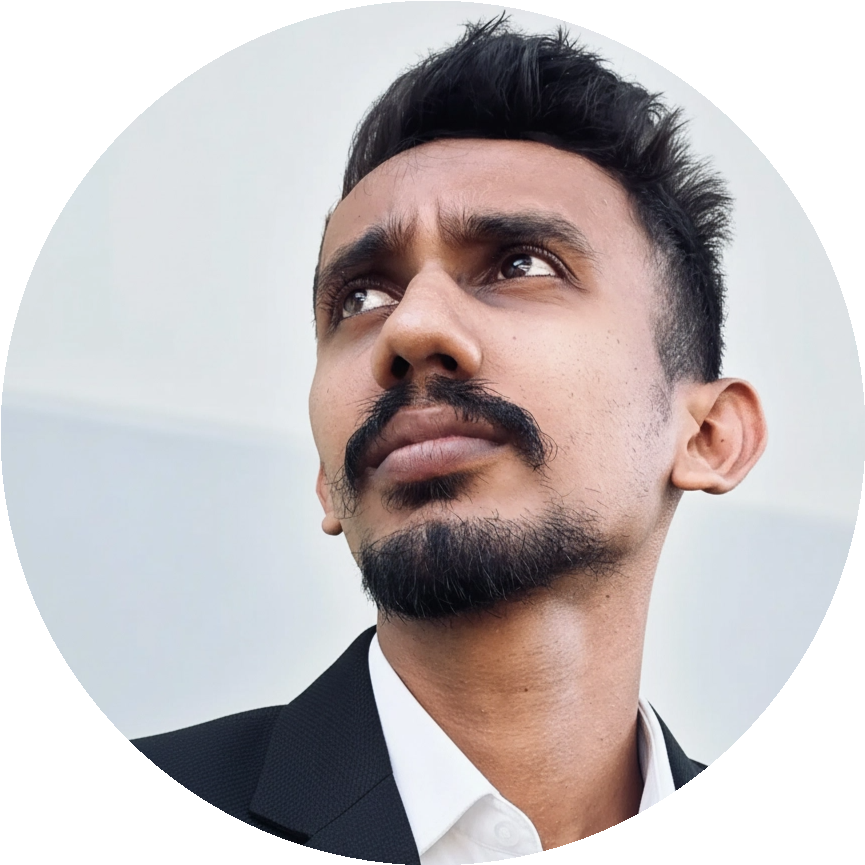
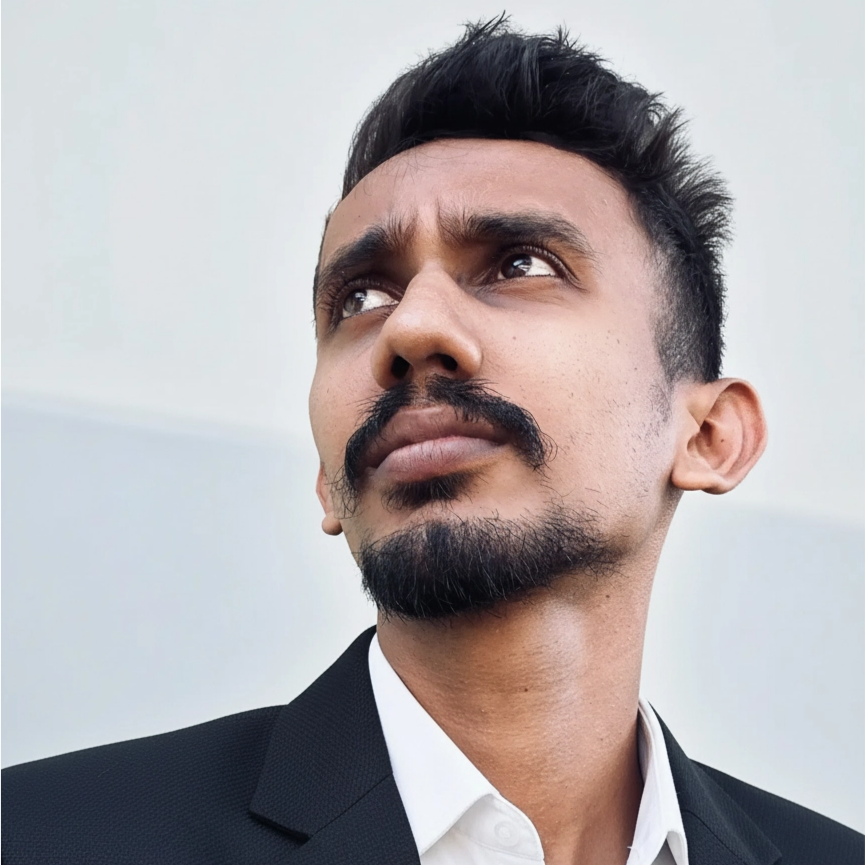
Updates

diff --git a/index.html b/index.html
@@ -1,10 +1,10 @@
-<!doctype html><html lang="en"><head><meta charset="utf-8"/><link rel="icon" type="image/png" href="/profile.jpg"/><link rel="icon" href="/favicon.ico"/><meta name="viewport" content="width=device-width,initial-scale=1"/><meta name="theme-color" content="#3b82f6"/><meta name="author" content="Rasika Prabath"/><title>Rasika Prabath | Software Engineer & Graphic Designer Portfolio</title><meta name="description" content="Portfolio of Rasika Prabath - Software Engineer, UI/UX Designer & Graphic Designer. Discover projects, skills, certificates, and professional experience."/><meta name="keywords" content="Rasika Prabath, Software Engineer, Graphic Designer, UI/UX Designer, Sri Lanka, SLIIT, React Developer, CodeHavenAcademy, Simplify Art, web development"/><meta name="robots" content="index, follow"/><meta property="og:type" content="website"/><meta property="og:url" content="https://www.rasikaprabath.me/"/><meta property="og:title" content="Rasika Prabath | Software Engineer & Graphic Designer"/><meta property="og:description" content="Portfolio of Rasika Prabath. Software Engineer, UI/UX Designer & Graphic Designer."/><meta property="og:image" content="/profile.jpg"/><meta property="twitter:card" content="summary_large_image"/><meta property="twitter:url" content="https://www.rasikaprabath.me/"/><meta property="twitter:title" content="Rasika Prabath | Software Engineer & Graphic Designer"/><meta property="twitter:description" content="Portfolio of Rasika Prabath. Software Engineer, UI/UX Designer & Graphic Designer."/><meta property="twitter:image" content="/profile.jpg"/><link rel="apple-touch-icon" href="/profile.jpg"/><link rel="apple-touch-icon" href="/logo192.png"/><link rel="manifest" href="/manifest.json"/><link rel="preconnect" href="https://fonts.googleapis.com"/><link rel="preconnect" href="https://fonts.gstatic.com" crossorigin/><link href="https://fonts.googleapis.com/css2?family=Inter:wght@300;400;500;600;700;800&family=Playfair+Display:wght@400;500;600;700&display=swap" rel="stylesheet"/><script type="application/ld+json">{
+<!doctype html><html lang="en"><head><meta charset="utf-8"/><link rel="icon" href="/favicon.ico?v=3"/><meta name="viewport" content="width=device-width,initial-scale=1"/><meta name="theme-color" content="#3b82f6"/><meta name="author" content="Rasika Prabath"/><title>Rasika Prabath | Software Engineer & UI/UX Designer</title><meta name="description" content="Hi, I'm Rasika Prabath, a Software Engineer & UI/UX Designer specializing in building clean, efficient, and user-centric web applications."/><meta name="keywords" content="Rasika Prabath, Software Engineer, UI/UX Designer, Sri Lanka, SLIIT, React Developer, CodeHavenAcademy, Simplify Art, web development"/><meta name="robots" content="index, follow"/><meta property="og:type" content="website"/><meta property="og:url" content="https://www.rasikaprabath.me/"/><meta property="og:title" content="Rasika Prabath | Software Engineer & UI/UX Designer"/><meta property="og:description" content="Hi, I'm Rasika Prabath, a Software Engineer & UI/UX Designer specializing in building clean, efficient, and user-centric web applications."/><meta property="og:image" content="/profile_backup.jpg"/><meta property="twitter:card" content="summary_large_image"/><meta property="twitter:url" content="https://www.rasikaprabath.me/"/><meta property="twitter:title" content="Rasika Prabath | Software Engineer & UI/UX Designer"/><meta property="twitter:description" content="Hi, I'm Rasika Prabath, a Software Engineer & UI/UX Designer specializing in building clean, efficient, and user-centric web applications."/><meta property="twitter:image" content="/profile_backup.jpg"/><link rel="apple-touch-icon" href="/logo192.png"/><link rel="manifest" href="/manifest.json"/><link rel="preconnect" href="https://fonts.googleapis.com"/><link rel="preconnect" href="https://fonts.gstatic.com" crossorigin/><link href="https://fonts.googleapis.com/css2?family=Inter:wght@300;400;500;600;700;800&family=Playfair+Display:wght@400;500;600;700&display=swap" rel="stylesheet"/><script type="application/ld+json">{
         "@context": "https://schema.org",
         "@type": "Person",
         "name": "Rasika Prabath",
         "url": "https://www.rasikaprabath.me/",
-        "image": "https://www.rasikaprabath.me/profile.jpg",
-        "jobTitle": "Software Engineer & Graphic Designer",
+        "image": "https://www.rasikaprabath.me/profile_backup.jpg",
+        "jobTitle": "Software Engineer & UI/UX Designer",
         "alumniOf": {
           "@type": "EducationalOrganization",
           "name": "SLIIT (Sri Lanka Institute of Information Technology)"
@@ -13,4 +13,4 @@
           "https://www.youtube.com/@CodeHavenAcademy",
           "https://www.instagram.com/simplify.art.lk"
         ]
-      }</script><script defer="defer" src="/static/js/main.e699541f.js"></script><link href="/static/css/main.2d41b281.css" rel="stylesheet"></head><body><noscript>You need to enable JavaScript to run this app.</noscript><div id="root"></div></body></html>
+      }</script><script defer="defer" src="/static/js/main.665c8e04.js"></script><link href="/static/css/main.f1a2ea99.css" rel="stylesheet"></head><body><noscript>You need to enable JavaScript to run this app.</noscript><div id="root"></div></body></html>

diff --git a/static/css/main.f1a2ea99.css b/static/css/main.f1a2ea99.css
@@ -1,0 +1,6 @@
+@import url(https://fonts.googleapis.com/css2?family=Plus+Jakarta+Sans:wght@300;400;500;600;700&family=Syne:wght@500;700;800&family=Outfit:wght@400;500;600;700&display=swap);*,:after,:before{--tw-border-spacing-x:0;--tw-border-spacing-y:0;--tw-translate-x:0;--tw-translate-y:0;--tw-rotate:0;--tw-skew-x:0;--tw-skew-y:0;--tw-scale-x:1;--tw-scale-y:1;--tw-pan-x: ;--tw-pan-y: ;--tw-pinch-zoom: ;--tw-scroll-snap-strictness:proximity;--tw-gradient-from-position: ;--tw-gradient-via-position: ;--tw-gradient-to-position: ;--tw-ordinal: ;--tw-slashed-zero: ;--tw-numeric-figure: ;--tw-numeric-spacing: ;--tw-numeric-fraction: ;--tw-ring-inset: ;--tw-ring-offset-width:0px;--tw-ring-offset-color:#fff;--tw-ring-color:#3b82f680;--tw-ring-offset-shadow:0 0 #0000;--tw-ring-shadow:0 0 #0000;--tw-shadow:0 0 #0000;--tw-shadow-colored:0 0 #0000;--tw-blur: ;--tw-brightness: ;--tw-contrast: ;--tw-grayscale: ;--tw-hue-rotate: ;--tw-invert: ;--tw-saturate: ;--tw-sepia: ;--tw-drop-shadow: ;--tw-backdrop-blur: ;--tw-backdrop-brightness: ;--tw-backdrop-contrast: ;--tw-backdrop-grayscale: ;--tw-backdrop-hue-rotate: ;--tw-backdrop-invert: ;--tw-backdrop-opacity: ;--tw-backdrop-saturate: ;--tw-backdrop-sepia: ;--tw-contain-size: ;--tw-contain-layout: ;--tw-contain-paint: ;--tw-contain-style: }::backdrop{--tw-border-spacing-x:0;--tw-border-spacing-y:0;--tw-translate-x:0;--tw-translate-y:0;--tw-rotate:0;--tw-skew-x:0;--tw-skew-y:0;--tw-scale-x:1;--tw-scale-y:1;--tw-pan-x: ;--tw-pan-y: ;--tw-pinch-zoom: ;--tw-scroll-snap-strictness:proximity;--tw-gradient-from-position: ;--tw-gradient-via-position: ;--tw-gradient-to-position: ;--tw-ordinal: ;--tw-slashed-zero: ;--tw-numeric-figure: ;--tw-numeric-spacing: ;--tw-numeric-fraction: ;--tw-ring-inset: ;--tw-ring-offset-width:0px;--tw-ring-offset-color:#fff;--tw-ring-color:#3b82f680;--tw-ring-offset-shadow:0 0 #0000;--tw-ring-shadow:0 0 #0000;--tw-shadow:0 0 #0000;--tw-shadow-colored:0 0 #0000;--tw-blur: ;--tw-brightness: ;--tw-contrast: ;--tw-grayscale: ;--tw-hue-rotate: ;--tw-invert: ;--tw-saturate: ;--tw-sepia: ;--tw-drop-shadow: ;--tw-backdrop-blur: ;--tw-backdrop-brightness: ;--tw-backdrop-contrast: ;--tw-backdrop-grayscale: ;--tw-backdrop-hue-rotate: ;--tw-backdrop-invert: ;--tw-backdrop-opacity: ;--tw-backdrop-saturate: ;--tw-backdrop-sepia: ;--tw-contain-size: ;--tw-contain-layout: ;--tw-contain-paint: ;--tw-contain-style: }
+
+/*
+! tailwindcss v3.4.19 | MIT License | https://tailwindcss.com
+*/*,:after,:before{border:0 solid #e5e7eb;box-sizing:border-box}:after,:before{--tw-content:""}:host,html{-webkit-text-size-adjust:100%;font-feature-settings:normal;-webkit-tap-highlight-color:transparent;font-family:Plus Jakarta Sans,-apple-system,BlinkMacSystemFont,Segoe UI,Inter,sans-serif;font-variation-settings:normal;line-height:1.5;tab-size:4}body{line-height:inherit}hr{border-top-width:1px;color:inherit;height:0}abbr:where([title]){-webkit-text-decoration:underline dotted;text-decoration:underline dotted}h1,h2,h3,h4,h5,h6{font-size:inherit;font-weight:inherit}a{text-decoration:inherit}b,strong{font-weight:bolder}code,kbd,pre,samp{font-feature-settings:normal;font-family:ui-monospace,SFMono-Regular,Menlo,Monaco,Consolas,Liberation Mono,Courier New,monospace;font-size:1em;font-variation-settings:normal}small{font-size:80%}sub,sup{font-size:75%;line-height:0;position:relative;vertical-align:initial}sub{bottom:-.25em}sup{top:-.5em}table{border-collapse:collapse;border-color:inherit;text-indent:0}button,input,optgroup,select,textarea{font-feature-settings:inherit;color:inherit;font-family:inherit;font-size:100%;font-variation-settings:inherit;font-weight:inherit;letter-spacing:inherit;line-height:inherit;margin:0;padding:0}button,select{text-transform:none}button,input:where([type=button]),input:where([type=reset]),input:where([type=submit]){-webkit-appearance:button;background-color:initial;background-image:none}:-moz-focusring{outline:auto}:-moz-ui-invalid{box-shadow:none}progress{vertical-align:initial}::-webkit-inner-spin-button,::-webkit-outer-spin-button{height:auto}[type=search]{-webkit-appearance:textfield;outline-offset:-2px}::-webkit-search-decoration{-webkit-appearance:none}::-webkit-file-upload-button{-webkit-appearance:button;font:inherit}summary{display:list-item}blockquote,dd,dl,figure,h1,h2,h3,h4,h5,h6,hr,p,pre{margin:0}fieldset{margin:0}fieldset,legend{padding:0}menu,ol,ul{list-style:none;margin:0;padding:0}dialog{padding:0}textarea{resize:vertical}input::placeholder,textarea::placeholder{color:#9ca3af;opacity:1}[role=button],button{cursor:pointer}:disabled{cursor:default}audio,canvas,embed,iframe,img,object,svg,video{display:block;vertical-align:middle}img,video{height:auto;max-width:100%}[hidden]:where(:not([hidden=until-found])){display:none}html{font-size:15px;scroll-behavior:smooth}::-webkit-scrollbar{height:10px;width:10px}::-webkit-scrollbar-button{display:none!important;height:0!important;width:0!important}::-webkit-scrollbar-track{background:#f9fafb}.dark ::-webkit-scrollbar-track,.dark::-webkit-scrollbar-track{background:#07090e}::-webkit-scrollbar-thumb{background:#0000004d;border:2px solid #f9fafb;border-radius:99px}.dark ::-webkit-scrollbar-thumb,.dark::-webkit-scrollbar-thumb{background:#ffffff4d;border-color:#07090e}::-webkit-scrollbar-thumb:hover{background:#00000080}.dark ::-webkit-scrollbar-thumb:hover,.dark::-webkit-scrollbar-thumb:hover{background:#ffffff80}@supports (-moz-appearance:none){*{scrollbar-color:#0000004d #f9fafb;scrollbar-width:thin}.dark *{scrollbar-color:#ffffff4d #07090e}}body{-webkit-font-smoothing:antialiased;-moz-osx-font-smoothing:grayscale;background-color:#e6e9f6;color:#4b5563;font-family:Plus Jakarta Sans,-apple-system,BlinkMacSystemFont,Segoe UI,Inter,sans-serif;font-weight:400;line-height:1.65;margin:0;transition:background-color .3s ease,color .3s ease}.dark body{background-color:#07090e;color:#94a3b8}a{color:inherit;text-decoration:none}h1,h2,h3,h4,h5,h6{color:#111827;font-family:Syne,Outfit,-apple-system,BlinkMacSystemFont,Segoe UI,sans-serif;font-weight:700;line-height:1.25}.dark h1,.dark h2,.dark h3,.dark h4,.dark h5,.dark h6{color:#fff}h1{font-size:2.25rem;font-weight:800}h2{font-size:1.75rem}h3{font-size:1.25rem}p{font-weight:400;line-height:1.65}section{position:relative;z-index:auto}:is(.dark .glass-card){background:#0f121cb3;border-color:#ffffff0d}.btn-primary{align-items:center;background-color:#1f2937;border:1px solid #0000;border-radius:9999px;color:#fff;cursor:pointer;display:inline-flex;font-size:.85rem;font-weight:600;justify-content:center;letter-spacing:-.01em;padding:.625rem 1.5rem;transition:all .3s ease}:is(.dark .btn-primary){background-color:#fff;color:#07090e}.btn-primary:hover{background-color:#111827;box-shadow:0 4px 12px #0000000d;transform:translateY(-1px)}:is(.dark .btn-primary:hover){background-color:#f3f4f6;box-shadow:0 4px 20px #ffffff1a}.btn-outline{align-items:center;background-color:initial;border:1px solid #0000001a;border-radius:9999px;color:#1f2937;cursor:pointer;display:inline-flex;font-size:.85rem;font-weight:600;justify-content:center;padding:.625rem 1.5rem;transition:all .3s ease}:is(.dark .btn-outline){border-color:#ffffff1a;color:#fff}.btn-outline:hover{background-color:#00000005;border-color:#0003;transform:translateY(-1px)}:is(.dark .btn-outline:hover){background-color:#ffffff0d;border-color:#ffffff40}:is(.dark .progress-bar){background:#ffffff0d}:is(.dark .progress-fill){background:#fff}.lets-talk-btn{align-items:center;background-color:initial;border:1px solid #0000001a;border-radius:9999px;color:#1f2937;cursor:pointer;display:inline-flex;font-size:.85rem;font-weight:600;justify-content:center;padding:.625rem 1.5rem;transition:all .3s ease}:is(.dark .lets-talk-btn){border-color:#ffffff1a;color:#fff}.lets-talk-btn:hover{background-color:#1f2937;border-color:#1f2937;color:#fff;transform:translateY(-1px)}:is(.dark .lets-talk-btn:hover){background-color:#fff;border-color:#fff;color:#07090e}:is(.dark .timeline-line){background:#ffffff0f}:is(.dark .timeline-dot){background:#4b5563}:is(.dark .premium-heading){color:#fff}:is(.dark .card-premium){background:#0f121c;border-color:#ffffff0a;box-shadow:none}:is(.dark .card-premium:hover){border-color:#ffffff1a;box-shadow:0 20px 40px #0003;transform:translateY(-4px)}.pointer-events-none{pointer-events:none}.pointer-events-auto{pointer-events:auto}.visible{visibility:visible}.fixed{position:fixed}.absolute{position:absolute}.relative{position:relative}.inset-0{inset:0}.-left-\[54px\]{left:-54px}.-right-\[54px\]{right:-54px}.bottom-0{bottom:0}.bottom-6{bottom:1.5rem}.left-1\/2{left:50%}.left-3{left:.75rem}.left-8{left:2rem}.right-4{right:1rem}.right-6{right:1.5rem}.right-8{right:2rem}.top-0{top:0}.top-3{top:.75rem}.top-4{top:1rem}.top-6{top:1.5rem}.isolate{isolation:isolate}.z-0{z-index:0}.z-10{z-index:10}.z-50{z-index:50}.z-\[9999\]{z-index:9999}.-m-3{margin:-.75rem}.-m-4{margin:-1rem}.mx-1{margin-left:.25rem;margin-right:.25rem}.mx-auto{margin-left:auto;margin-right:auto}.mb-0\.5{margin-bottom:.125rem}.mb-1{margin-bottom:.25rem}.mb-1\.5{margin-bottom:.375rem}.mb-10{margin-bottom:2.5rem}.mb-12{margin-bottom:3rem}.mb-2{margin-bottom:.5rem}.mb-2\.5{margin-bottom:.625rem}.mb-3{margin-bottom:.75rem}.mb-4{margin-bottom:1rem}.mb-5{margin-bottom:1.25rem}.mb-6{margin-bottom:1.5rem}.mb-8{margin-bottom:2rem}.ml-1{margin-left:.25rem}.ml-1\.5{margin-left:.375rem}.mt-1{margin-top:.25rem}.mt-12{margin-top:3rem}.mt-2{margin-top:.5rem}.mt-20{margin-top:5rem}.mt-3{margin-top:.75rem}.mt-4{margin-top:1rem}.mt-6{margin-top:1.5rem}.line-clamp-2{-webkit-box-orient:vertical;-webkit-line-clamp:2;display:-webkit-box;overflow:hidden}.block{display:block}.inline-block{display:inline-block}.flex{display:flex}.inline-flex{display:inline-flex}.grid{display:grid}.hidden{display:none}.h-1{height:.25rem}.h-10{height:2.5rem}.h-12{height:3rem}.h-16{height:4rem}.h-2{height:.5rem}.h-3{height:.75rem}.h-3\.5{height:.875rem}.h-4{height:1rem}.h-44{height:11rem}.h-48{height:12rem}.h-5{height:1.25rem}.h-6{height:1.5rem}.h-64{height:16rem}.h-8{height:2rem}.h-\[15px\]{height:15px}.h-\[18px\]{height:18px}.h-full{height:100%}.max-h-\[85vh\]{max-height:85vh}.min-h-\[2rem\]{min-height:2rem}.min-h-screen{min-height:100vh}.w-0\.5{width:.125rem}.w-10{width:2.5rem}.w-12{width:3rem}.w-16{width:4rem}.w-2{width:.5rem}.w-3{width:.75rem}.w-3\.5{width:.875rem}.w-4{width:1rem}.w-48{width:12rem}.w-6{width:1.5rem}.w-64{width:16rem}.w-8{width:2rem}.w-\[15px\]{width:15px}.w-\[18px\]{width:18px}.w-\[1px\]{width:1px}.w-\[96\%\]{width:96%}.w-full{width:100%}.min-w-0{min-width:0}.max-w-2xl{max-width:42rem}.max-w-3xl{max-width:48rem}.max-w-4xl{max-width:56rem}.max-w-5xl{max-width:64rem}.max-w-6xl{max-width:72rem}.max-w-7xl{max-width:80rem}.max-w-full{max-width:100%}.max-w-max{max-width:-webkit-max-content;max-width:max-content}.max-w-md{max-width:28rem}.max-w-xl{max-width:36rem}.flex-1{flex:1 1}.flex-shrink-0{flex-shrink:0}.grow{flex-grow:1}.-translate-x-1\/2{--tw-translate-x:-50%}.-translate-x-1\/2,.translate-y-0{transform:translate(var(--tw-translate-x),var(--tw-translate-y)) rotate(var(--tw-rotate)) skewX(var(--tw-skew-x)) skewY(var(--tw-skew-y)) scaleX(var(--tw-scale-x)) scaleY(var(--tw-scale-y))}.translate-y-0{--tw-translate-y:0px}.translate-y-4{--tw-translate-y:1rem}.scale-100,.translate-y-4{transform:translate(var(--tw-translate-x),var(--tw-translate-y)) rotate(var(--tw-rotate)) skewX(var(--tw-skew-x)) skewY(var(--tw-skew-y)) scaleX(var(--tw-scale-x)) scaleY(var(--tw-scale-y))}.scale-100{--tw-scale-x:1;--tw-scale-y:1}.scale-95{--tw-scale-x:.95;--tw-scale-y:.95}.scale-95,.transform{transform:translate(var(--tw-translate-x),var(--tw-translate-y)) rotate(var(--tw-rotate)) skewX(var(--tw-skew-x)) skewY(var(--tw-skew-y)) scaleX(var(--tw-scale-x)) scaleY(var(--tw-scale-y))}@keyframes ping{75%,to{opacity:0;transform:scale(2)}}.animate-ping{animation:ping 1s cubic-bezier(0,0,.2,1) infinite}@keyframes pulse{50%{opacity:.5}}.animate-pulse{animation:pulse 2s cubic-bezier(.4,0,.6,1) infinite}.animate-spin{animation:spin 1s linear infinite}@keyframes spin{to{transform:rotate(1turn)}}.animate-spin-slow{animation:spin 20s linear infinite}.cursor-pointer{cursor:pointer}.select-none{-webkit-user-select:none;user-select:none}.resize-none{resize:none}.resize{resize:both}.grid-cols-1{grid-template-columns:repeat(1,minmax(0,1fr))}.grid-cols-3{grid-template-columns:repeat(3,minmax(0,1fr))}.flex-col{flex-direction:column}.flex-wrap{flex-wrap:wrap}.items-start{align-items:flex-start}.items-center{align-items:center}.items-baseline{align-items:baseline}.justify-end{justify-content:flex-end}.justify-center{justify-content:center}.justify-between{justify-content:space-between}.gap-0\.5{gap:.125rem}.gap-1{gap:.25rem}.gap-1\.5{gap:.375rem}.gap-12{gap:3rem}.gap-2{gap:.5rem}.gap-3{gap:.75rem}.gap-4{gap:1rem}.gap-6{gap:1.5rem}.gap-8{gap:2rem}.space-y-1\.5>:not([hidden])~:not([hidden]){--tw-space-y-reverse:0;margin-bottom:calc(.375rem*var(--tw-space-y-reverse));margin-top:calc(.375rem*(1 - var(--tw-space-y-reverse)))}.space-y-2>:not([hidden])~:not([hidden]){--tw-space-y-reverse:0;margin-bottom:calc(.5rem*var(--tw-space-y-reverse));margin-top:calc(.5rem*(1 - var(--tw-space-y-reverse)))}.space-y-5>:not([hidden])~:not([hidden]){--tw-space-y-reverse:0;margin-bottom:calc(1.25rem*var(--tw-space-y-reverse));margin-top:calc(1.25rem*(1 - var(--tw-space-y-reverse)))}.space-y-6>:not([hidden])~:not([hidden]){--tw-space-y-reverse:0;margin-bottom:calc(1.5rem*var(--tw-space-y-reverse));margin-top:calc(1.5rem*(1 - var(--tw-space-y-reverse)))}.overflow-hidden{overflow:hidden}.overflow-x-auto{overflow-x:auto}.overflow-y-auto{overflow-y:auto}.overflow-x-hidden{overflow-x:hidden}.whitespace-nowrap{white-space:nowrap}.break-words{overflow-wrap:break-word}.break-all{word-break:break-all}.rounded{border-radius:.25rem}.rounded-2xl{border-radius:1rem}.rounded-3xl{border-radius:1.5rem}.rounded-full{border-radius:9999px}.border{border-width:1px}.border-2{border-width:2px}.border-4{border-width:4px}.border-t{border-top-width:1px}.border-dashed{border-style:dashed}.border-amber-500\/20{border-color:#f59e0b33}.border-black\/10{border-color:#0000001a}.border-black\/5{border-color:#0000000d}.border-emerald-500\/10{border-color:#10b9811a}.border-emerald-500\/15{border-color:#10b98126}.border-gray-900{--tw-border-opacity:1;border-color:#111827;border-color:rgb(17 24 39/var(--tw-border-opacity,1))}.border-indigo-600{--tw-border-opacity:1;border-color:#4f46e5;border-color:rgb(79 70 229/var(--tw-border-opacity,1))}.border-rose-500\/20{border-color:#f43f5e33}.border-transparent{border-color:#0000}.bg-\[\#030508\]{--tw-bg-opacity:1;background-color:#030508;background-color:rgb(3 5 8/var(--tw-bg-opacity,1))}.bg-amber-500\/10{background-color:#f59e0b1a}.bg-amber-500\/5{background-color:#f59e0b0d}.bg-black\/10{background-color:#0000001a}.bg-black\/40{background-color:#0006}.bg-black\/5{background-color:#0000000d}.bg-emerald-400{--tw-bg-opacity:1;background-color:#34d399;background-color:rgb(52 211 153/var(--tw-bg-opacity,1))}.bg-emerald-500{--tw-bg-opacity:1;background-color:#10b981;background-color:rgb(16 185 129/var(--tw-bg-opacity,1))}.bg-emerald-500\/10{background-color:#10b9811a}.bg-emerald-500\/5{background-color:#10b9810d}.bg-gray-100{--tw-bg-opacity:1;background-color:#f3f4f6;background-color:rgb(243 244 246/var(--tw-bg-opacity,1))}.bg-gray-50{--tw-bg-opacity:1;background-color:#f9fafb;background-color:rgb(249 250 251/var(--tw-bg-opacity,1))}.bg-gray-900{--tw-bg-opacity:1;background-color:#111827;background-color:rgb(17 24 39/var(--tw-bg-opacity,1))}.bg-gray-900\/90{background-color:#111827e6}.bg-indigo-600{--tw-bg-opacity:1;background-color:#4f46e5;background-color:rgb(79 70 229/var(--tw-bg-opacity,1))}.bg-rose-500\/5{background-color:#f43f5e0d}.bg-transparent{background-color:initial}.bg-white{--tw-bg-opacity:1;background-color:#fff;background-color:rgb(255 255 255/var(--tw-bg-opacity,1))}.bg-white\/80{background-color:#fffc}.bg-gradient-to-br{background-image:linear-gradient(to bottom right,var(--tw-gradient-stops))}.bg-gradient-to-r{background-image:linear-gradient(to right,var(--tw-gradient-stops))}.from-black\/5{--tw-gradient-from:#0000000d var(--tw-gradient-from-position);--tw-gradient-to:#0000 var(--tw-gradient-to-position);--tw-gradient-stops:var(--tw-gradient-from),var(--tw-gradient-to)}.from-blue-400{--tw-gradient-from:#60a5fa var(--tw-gradient-from-position);--tw-gradient-to:#60a5fa00 var(--tw-gradient-to-position);--tw-gradient-stops:var(--tw-gradient-from),var(--tw-gradient-to)}.from-gray-900{--tw-gradient-from:#111827 var(--tw-gradient-from-position);--tw-gradient-to:#11182700 var(--tw-gradient-to-position);--tw-gradient-stops:var(--tw-gradient-from),var(--tw-gradient-to)}.via-blue-500{--tw-gradient-to:#3b82f600 var(--tw-gradient-to-position);--tw-gradient-stops:var(--tw-gradient-from),#3b82f6 var(--tw-gradient-via-position),var(--tw-gradient-to)}.to-black\/10{--tw-gradient-to:#0000001a var(--tw-gradient-to-position)}.to-blue-600{--tw-gradient-to:#2563eb var(--tw-gradient-to-position)}.to-gray-950{--tw-gradient-to:#030712 var(--tw-gradient-to-position)}.bg-clip-text{-webkit-background-clip:text;background-clip:text}.fill-white{fill:#fff}.object-contain{object-fit:contain}.object-cover{object-fit:cover}.p-2{padding:.5rem}.p-3{padding:.75rem}.p-4{padding:1rem}.p-5{padding:1.25rem}.p-6{padding:1.5rem}.p-8{padding:2rem}.px-1{padding-left:.25rem;padding-right:.25rem}.px-2{padding-left:.5rem;padding-right:.5rem}.px-2\.5{padding-left:.625rem;padding-right:.625rem}.px-3\.5{padding-left:.875rem;padding-right:.875rem}.px-4{padding-left:1rem;padding-right:1rem}.px-6{padding-left:1.5rem;padding-right:1.5rem}.py-0\.5{padding-bottom:.125rem;padding-top:.125rem}.py-1\.5{padding-bottom:.375rem;padding-top:.375rem}.py-16{padding-bottom:4rem;padding-top:4rem}.py-2{padding-bottom:.5rem;padding-top:.5rem}.py-20{padding-bottom:5rem;padding-top:5rem}.py-3{padding-bottom:.75rem;padding-top:.75rem}.py-4{padding-bottom:1rem;padding-top:1rem}.py-8{padding-bottom:2rem;padding-top:2rem}.pb-12{padding-bottom:3rem}.pb-4{padding-bottom:1rem}.pr-10{padding-right:2.5rem}.pt-2{padding-top:.5rem}.pt-28{padding-top:7rem}.pt-4{padding-top:1rem}.pt-8{padding-top:2rem}.text-left{text-align:left}.text-center{text-align:center}.font-display{font-family:Syne,Outfit,-apple-system,BlinkMacSystemFont,Segoe UI,sans-serif}.font-mono{font-family:ui-monospace,SFMono-Regular,Menlo,Monaco,Consolas,Liberation Mono,Courier New,monospace}.font-sans{font-family:Plus Jakarta Sans,-apple-system,BlinkMacSystemFont,Segoe UI,Inter,sans-serif}.text-2xl{font-size:1.5rem;line-height:2rem}.text-3xl{font-size:1.875rem;line-height:2.25rem}.text-4xl{font-size:2.25rem;line-height:2.5rem}.text-\[10px\]{font-size:10px}.text-base{font-size:1rem;line-height:1.5rem}.text-lg{font-size:1.125rem;line-height:1.75rem}.text-sm{font-size:.875rem;line-height:1.25rem}.text-xl{font-size:1.25rem;line-height:1.75rem}.text-xs{font-size:.75rem;line-height:1rem}.font-bold{font-weight:700}.font-light{font-weight:300}.font-medium{font-weight:500}.font-semibold{font-weight:600}.uppercase{text-transform:uppercase}.leading-\[1\.1\]{line-height:1.1}.leading-relaxed{line-height:1.625}.tracking-tight{letter-spacing:-.025em}.tracking-wider{letter-spacing:.05em}.tracking-widest{letter-spacing:.1em}.text-\[\#007396\]{--tw-text-opacity:1;color:#007396;color:rgb(0 115 150/var(--tw-text-opacity,1))}.text-\[\#007ACC\]{--tw-text-opacity:1;color:#007acc;color:rgb(0 122 204/var(--tw-text-opacity,1))}.text-\[\#06B6D4\]{--tw-text-opacity:1;color:#06b6d4;color:rgb(6 182 212/var(--tw-text-opacity,1))}.text-\[\#1572B6\]{--tw-text-opacity:1;color:#1572b6;color:rgb(21 114 182/var(--tw-text-opacity,1))}.text-\[\#339933\]{--tw-text-opacity:1;color:#393;color:rgb(51 153 51/var(--tw-text-opacity,1))}.text-\[\#4479A1\]{--tw-text-opacity:1;color:#4479a1;color:rgb(68 121 161/var(--tw-text-opacity,1))}.text-\[\#47A248\]{--tw-text-opacity:1;color:#47a248;color:rgb(71 162 72/var(--tw-text-opacity,1))}.text-\[\#512BD4\]{--tw-text-opacity:1;color:#512bd4;color:rgb(81 43 212/var(--tw-text-opacity,1))}.text-\[\#61DAFB\]{--tw-text-opacity:1;color:#61dafb;color:rgb(97 218 251/var(--tw-text-opacity,1))}.text-\[\#777BB4\]{--tw-text-opacity:1;color:#777bb4;color:rgb(119 123 180/var(--tw-text-opacity,1))}.text-\[\#E34F26\]{--tw-text-opacity:1;color:#e34f26;color:rgb(227 79 38/var(--tw-text-opacity,1))}.text-\[\#F05032\]{--tw-text-opacity:1;color:#f05032;color:rgb(240 80 50/var(--tw-text-opacity,1))}.text-\[\#F7DF1E\]{--tw-text-opacity:1;color:#f7df1e;color:rgb(247 223 30/var(--tw-text-opacity,1))}.text-\[\#FFCA28\]{--tw-text-opacity:1;color:#ffca28;color:rgb(255 202 40/var(--tw-text-opacity,1))}.text-amber-600{--tw-text-opacity:1;color:#d97706;color:rgb(217 119 6/var(--tw-text-opacity,1))}.text-black{--tw-text-opacity:1;color:#000;color:rgb(0 0 0/var(--tw-text-opacity,1))}.text-current{color:currentColor}.text-emerald-600{--tw-text-opacity:1;color:#059669;color:rgb(5 150 105/var(--tw-text-opacity,1))}.text-gray-300{--tw-text-opacity:1;color:#d1d5db;color:rgb(209 213 219/var(--tw-text-opacity,1))}.text-gray-400{--tw-text-opacity:1;color:#9ca3af;color:rgb(156 163 175/var(--tw-text-opacity,1))}.text-gray-500{--tw-text-opacity:1;color:#6b7280;color:rgb(107 114 128/var(--tw-text-opacity,1))}.text-gray-600{--tw-text-opacity:1;color:#4b5563;color:rgb(75 85 99/var(--tw-text-opacity,1))}.text-gray-700{--tw-text-opacity:1;color:#374151;color:rgb(55 65 81/var(--tw-text-opacity,1))}.text-gray-800{--tw-text-opacity:1;color:#1f2937;color:rgb(31 41 55/var(--tw-text-opacity,1))}.text-gray-900{--tw-text-opacity:1;color:#111827;color:rgb(17 24 39/var(--tw-text-opacity,1))}.text-indigo-600{--tw-text-opacity:1;color:#4f46e5;color:rgb(79 70 229/var(--tw-text-opacity,1))}.text-rose-600{--tw-text-opacity:1;color:#e11d48;color:rgb(225 29 72/var(--tw-text-opacity,1))}.text-transparent{color:#0000}.text-white{--tw-text-opacity:1;color:#fff;color:rgb(255 255 255/var(--tw-text-opacity,1))}.underline{-webkit-text-decoration-line:underline;text-decoration-line:underline}.decoration-indigo-500{-webkit-text-decoration-color:#6366f1;text-decoration-color:#6366f1}.decoration-2{text-decoration-thickness:2px}.underline-offset-4{text-underline-offset:4px}.opacity-0{opacity:0}.opacity-100{opacity:1}.opacity-25{opacity:.25}.opacity-75{opacity:.75}.shadow-lg{--tw-shadow:0 10px 15px -3px #0000001a,0 4px 6px -4px #0000001a;--tw-shadow-colored:0 10px 15px -3px var(--tw-shadow-color),0 4px 6px -4px var(--tw-shadow-color)}.shadow-lg,.shadow-md{box-shadow:0 0 #0000,0 0 #0000,var(--tw-shadow);box-shadow:var(--tw-ring-offset-shadow,0 0 #0000),var(--tw-ring-shadow,0 0 #0000),var(--tw-shadow)}.shadow-md{--tw-shadow:0 4px 6px -1px #0000001a,0 2px 4px -2px #0000001a;--tw-shadow-colored:0 4px 6px -1px var(--tw-shadow-color),0 2px 4px -2px var(--tw-shadow-color)}.shadow-sm{--tw-shadow:0 1px 2px 0 #0000000d;--tw-shadow-colored:0 1px 2px 0 var(--tw-shadow-color)}.shadow-sm,.shadow-xl{box-shadow:0 0 #0000,0 0 #0000,var(--tw-shadow);box-shadow:var(--tw-ring-offset-shadow,0 0 #0000),var(--tw-ring-shadow,0 0 #0000),var(--tw-shadow)}.shadow-xl{--tw-shadow:0 20px 25px -5px #0000001a,0 8px 10px -6px #0000001a;--tw-shadow-colored:0 20px 25px -5px var(--tw-shadow-color),0 8px 10px -6px var(--tw-shadow-color)}.shadow-indigo-600\/20{--tw-shadow-color:#4f46e533;--tw-shadow:var(--tw-shadow-colored)}.blur-3xl{--tw-blur:blur(64px)}.blur-3xl,.filter{filter:var(--tw-blur) var(--tw-brightness) var(--tw-contrast) var(--tw-grayscale) var(--tw-hue-rotate) var(--tw-invert) var(--tw-saturate) var(--tw-sepia) var(--tw-drop-shadow)}.backdrop-blur-md{--tw-backdrop-blur:blur(12px)}.backdrop-blur-md,.backdrop-blur-xl{-webkit-backdrop-filter:var(--tw-backdrop-blur) var(--tw-backdrop-brightness) var(--tw-backdrop-contrast) var(--tw-backdrop-grayscale) var(--tw-backdrop-hue-rotate) var(--tw-backdrop-invert) var(--tw-backdrop-opacity) var(--tw-backdrop-saturate) var(--tw-backdrop-sepia);backdrop-filter:var(--tw-backdrop-blur) var(--tw-backdrop-brightness) var(--tw-backdrop-contrast) var(--tw-backdrop-grayscale) var(--tw-backdrop-hue-rotate) var(--tw-backdrop-invert) var(--tw-backdrop-opacity) var(--tw-backdrop-saturate) var(--tw-backdrop-sepia)}.backdrop-blur-xl{--tw-backdrop-blur:blur(24px)}.transition{transition-duration:.15s;transition-property:color,background-color,border-color,fill,stroke,opacity,box-shadow,transform,filter,-webkit-text-decoration-color,-webkit-backdrop-filter;transition-property:color,background-color,border-color,text-decoration-color,fill,stroke,opacity,box-shadow,transform,filter,backdrop-filter;transition-property:color,background-color,border-color,text-decoration-color,fill,stroke,opacity,box-shadow,transform,filter,backdrop-filter,-webkit-text-decoration-color,-webkit-backdrop-filter;transition-timing-function:cubic-bezier(.4,0,.2,1)}.transition-all{transition-duration:.15s;transition-property:all;transition-timing-function:cubic-bezier(.4,0,.2,1)}.transition-colors{transition-duration:.15s;transition-property:color,background-color,border-color,fill,stroke,-webkit-text-decoration-color;transition-property:color,background-color,border-color,text-decoration-color,fill,stroke;transition-property:color,background-color,border-color,text-decoration-color,fill,stroke,-webkit-text-decoration-color;transition-timing-function:cubic-bezier(.4,0,.2,1)}.transition-opacity{transition-duration:.15s;transition-property:opacity;transition-timing-function:cubic-bezier(.4,0,.2,1)}.transition-transform{transition-duration:.15s;transition-property:transform;transition-timing-function:cubic-bezier(.4,0,.2,1)}.duration-200{transition-duration:.2s}.duration-300{transition-duration:.3s}.duration-500{transition-duration:.5s}.duration-700{transition-duration:.7s}:is(.dark .text-gradient){color:#fff}:is(.dark .border-gradient){border-color:#ffffff14}:is(.dark .bg-dot-matrix){background-image:radial-gradient(#ffffff08 1px,#0000 0)}.scrollbar-thin::-webkit-scrollbar{width:20px}.scrollbar-thin::-webkit-scrollbar-button{display:none!important;height:0!important;width:0!important}.scrollbar-thin::-webkit-scrollbar-track{background:#0000;border-bottom:32px solid #0000;border-top:32px solid #0000}.scrollbar-thin::-webkit-scrollbar-thumb{background-clip:padding-box;background-color:#00000040;border:8px solid #0000;border-radius:99px;-webkit-transition:background-color .2s;transition:background-color .2s}.scrollbar-thin::-webkit-scrollbar-thumb:hover{background-color:#00000073}.scrollbar-thin::-webkit-scrollbar-thumb:active{background-color:#0009}.dark .scrollbar-thin::-webkit-scrollbar-thumb{background-clip:padding-box;background-color:#ffffff40;border:8px solid #0000;border-radius:99px;-webkit-transition:background-color .2s;transition:background-color .2s}.dark .scrollbar-thin::-webkit-scrollbar-thumb:hover{background-color:#ffffff73}.dark .scrollbar-thin::-webkit-scrollbar-thumb:active{background-color:#fff9}.scrollbar-thin{scrollbar-width:auto}@supports (-moz-appearance:none){.scrollbar-thin{scrollbar-color:#00000040 #0000;scrollbar-width:thin}.dark .scrollbar-thin{scrollbar-color:#ffffff40 #0000}}@media (max-width:767px){input,select,textarea{font-size:16px!important}}.hover\:-translate-y-0\.5:hover{--tw-translate-y:-0.125rem}.hover\:-translate-y-0\.5:hover,.hover\:scale-105:hover{transform:translate(var(--tw-translate-x),var(--tw-translate-y)) rotate(var(--tw-rotate)) skewX(var(--tw-skew-x)) skewY(var(--tw-skew-y)) scaleX(var(--tw-scale-x)) scaleY(var(--tw-scale-y))}.hover\:scale-105:hover{--tw-scale-x:1.05;--tw-scale-y:1.05}.hover\:scale-\[1\.01\]:hover{--tw-scale-x:1.01;--tw-scale-y:1.01}.hover\:scale-\[1\.01\]:hover,.hover\:scale-\[1\.03\]:hover{transform:translate(var(--tw-translate-x),var(--tw-translate-y)) rotate(var(--tw-rotate)) skewX(var(--tw-skew-x)) skewY(var(--tw-skew-y)) scaleX(var(--tw-scale-x)) scaleY(var(--tw-scale-y))}.hover\:scale-\[1\.03\]:hover{--tw-scale-x:1.03;--tw-scale-y:1.03}.hover\:border-black\/10:hover{border-color:#0000001a}.hover\:bg-black\/\[0\.02\]:hover{background-color:#00000005}.hover\:bg-black\/\[0\.03\]:hover{background-color:#00000008}.hover\:bg-gray-100:hover{--tw-bg-opacity:1;background-color:#f3f4f6;background-color:rgb(243 244 246/var(--tw-bg-opacity,1))}.hover\:text-amber-700:hover{--tw-text-opacity:1;color:#b45309;color:rgb(180 83 9/var(--tw-text-opacity,1))}.hover\:text-gray-900:hover{--tw-text-opacity:1;color:#111827;color:rgb(17 24 39/var(--tw-text-opacity,1))}.hover\:opacity-80:hover{opacity:.8}.hover\:opacity-85:hover{opacity:.85}.hover\:shadow-md:hover{--tw-shadow:0 4px 6px -1px #0000001a,0 2px 4px -2px #0000001a;--tw-shadow-colored:0 4px 6px -1px var(--tw-shadow-color),0 2px 4px -2px var(--tw-shadow-color);box-shadow:0 0 #0000,0 0 #0000,var(--tw-shadow);box-shadow:var(--tw-ring-offset-shadow,0 0 #0000),var(--tw-ring-shadow,0 0 #0000),var(--tw-shadow)}.focus\:border-black:focus{--tw-border-opacity:1;border-color:#000;border-color:rgb(0 0 0/var(--tw-border-opacity,1))}.focus\:bg-white:focus{--tw-bg-opacity:1;background-color:#fff;background-color:rgb(255 255 255/var(--tw-bg-opacity,1))}.focus\:outline-none:focus{outline:2px solid #0000;outline-offset:2px}.disabled\:cursor-not-allowed:disabled{cursor:not-allowed}.disabled\:opacity-60:disabled{opacity:.6}.group:hover .group-hover\:scale-105{--tw-scale-x:1.05;--tw-scale-y:1.05}.group:hover .group-hover\:scale-105,.group:hover .group-hover\:scale-150{transform:translate(var(--tw-translate-x),var(--tw-translate-y)) rotate(var(--tw-rotate)) skewX(var(--tw-skew-x)) skewY(var(--tw-skew-y)) scaleX(var(--tw-scale-x)) scaleY(var(--tw-scale-y))}.group:hover .group-hover\:scale-150{--tw-scale-x:1.5;--tw-scale-y:1.5}.group:hover .group-hover\:scale-\[1\.02\]{--tw-scale-x:1.02;--tw-scale-y:1.02}.group:hover .group-hover\:scale-\[1\.02\],.group:hover .group-hover\:scale-\[1\.03\]{transform:translate(var(--tw-translate-x),var(--tw-translate-y)) rotate(var(--tw-rotate)) skewX(var(--tw-skew-x)) skewY(var(--tw-skew-y)) scaleX(var(--tw-scale-x)) scaleY(var(--tw-scale-y))}.group:hover .group-hover\:scale-\[1\.03\]{--tw-scale-x:1.03;--tw-scale-y:1.03}.group:hover .group-hover\:border-primary-500{--tw-border-opacity:1;border-color:#8b5cf6;border-color:rgb(139 92 246/var(--tw-border-opacity,1))}.group:hover .group-hover\:bg-primary-500{--tw-bg-opacity:1;background-color:#8b5cf6;background-color:rgb(139 92 246/var(--tw-bg-opacity,1))}.group:hover .group-hover\:text-gray-900{--tw-text-opacity:1;color:#111827;color:rgb(17 24 39/var(--tw-text-opacity,1))}.dark\:border-indigo-500:is(.dark *){--tw-border-opacity:1;border-color:#6366f1;border-color:rgb(99 102 241/var(--tw-border-opacity,1))}.dark\:border-white:is(.dark *){--tw-border-opacity:1;border-color:#fff;border-color:rgb(255 255 255/var(--tw-border-opacity,1))}.dark\:border-white\/10:is(.dark *){border-color:#ffffff1a}.dark\:border-white\/5:is(.dark *){border-color:#ffffff0d}.dark\:bg-\[\#07090e\]:is(.dark *){--tw-bg-opacity:1;background-color:#07090e;background-color:rgb(7 9 14/var(--tw-bg-opacity,1))}.dark\:bg-black\/60:is(.dark *){background-color:#0009}.dark\:bg-dark-bg:is(.dark *){--tw-bg-opacity:1;background-color:#07090e;background-color:rgb(7 9 14/var(--tw-bg-opacity,1))}.dark\:bg-dark-card:is(.dark *){--tw-bg-opacity:1;background-color:#0f121c;background-color:rgb(15 18 28/var(--tw-bg-opacity,1))}.dark\:bg-dark-card\/85:is(.dark *){background-color:#0f121cd9}.dark\:bg-dark-hover:is(.dark *){--tw-bg-opacity:1;background-color:#171b27;background-color:rgb(23 27 39/var(--tw-bg-opacity,1))}.dark\:bg-dark-hover\/50:is(.dark *){background-color:#171b2780}.dark\:bg-emerald-950\/20:is(.dark *){background-color:#022c2233}.dark\:bg-indigo-500:is(.dark *){--tw-bg-opacity:1;background-color:#6366f1;background-color:rgb(99 102 241/var(--tw-bg-opacity,1))}.dark\:bg-white:is(.dark *){--tw-bg-opacity:1;background-color:#fff;background-color:rgb(255 255 255/var(--tw-bg-opacity,1))}.dark\:bg-white\/10:is(.dark *){background-color:#ffffff1a}.dark\:bg-white\/5:is(.dark *){background-color:#ffffff0d}.dark\:bg-white\/90:is(.dark *){background-color:#ffffffe6}.dark\:from-white:is(.dark *){--tw-gradient-from:#fff var(--tw-gradient-from-position);--tw-gradient-to:#fff0 var(--tw-gradient-to-position);--tw-gradient-stops:var(--tw-gradient-from),var(--tw-gradient-to)}.dark\:from-white\/5:is(.dark *){--tw-gradient-from:#ffffff0d var(--tw-gradient-from-position);--tw-gradient-to:#fff0 var(--tw-gradient-to-position);--tw-gradient-stops:var(--tw-gradient-from),var(--tw-gradient-to)}.dark\:to-gray-100:is(.dark *){--tw-gradient-to:#f3f4f6 var(--tw-gradient-to-position)}.dark\:to-white\/10:is(.dark *){--tw-gradient-to:#ffffff1a var(--tw-gradient-to-position)}.dark\:fill-black:is(.dark *){fill:#000}.dark\:text-amber-400:is(.dark *){--tw-text-opacity:1;color:#fbbf24;color:rgb(251 191 36/var(--tw-text-opacity,1))}.dark\:text-emerald-400:is(.dark *){--tw-text-opacity:1;color:#34d399;color:rgb(52 211 153/var(--tw-text-opacity,1))}.dark\:text-gray-300:is(.dark *){--tw-text-opacity:1;color:#d1d5db;color:rgb(209 213 219/var(--tw-text-opacity,1))}.dark\:text-gray-400:is(.dark *){--tw-text-opacity:1;color:#9ca3af;color:rgb(156 163 175/var(--tw-text-opacity,1))}.dark\:text-gray-500:is(.dark *){--tw-text-opacity:1;color:#6b7280;color:rgb(107 114 128/var(--tw-text-opacity,1))}.dark\:text-gray-600:is(.dark *){--tw-text-opacity:1;color:#4b5563;color:rgb(75 85 99/var(--tw-text-opacity,1))}.dark\:text-gray-900:is(.dark *){--tw-text-opacity:1;color:#111827;color:rgb(17 24 39/var(--tw-text-opacity,1))}.dark\:text-indigo-400:is(.dark *){--tw-text-opacity:1;color:#818cf8;color:rgb(129 140 248/var(--tw-text-opacity,1))}.dark\:text-rose-400:is(.dark *){--tw-text-opacity:1;color:#fb7185;color:rgb(251 113 133/var(--tw-text-opacity,1))}.dark\:text-white:is(.dark *){--tw-text-opacity:1;color:#fff;color:rgb(255 255 255/var(--tw-text-opacity,1))}.dark\:shadow-indigo-500\/30:is(.dark *){--tw-shadow-color:#6366f14d;--tw-shadow:var(--tw-shadow-colored)}.dark\:hover\:border-white\/10:hover:is(.dark *){border-color:#ffffff1a}.dark\:hover\:bg-dark-hover:hover:is(.dark *){--tw-bg-opacity:1;background-color:#171b27;background-color:rgb(23 27 39/var(--tw-bg-opacity,1))}.dark\:hover\:bg-white\/\[0\.02\]:hover:is(.dark *){background-color:#ffffff05}.dark\:hover\:bg-white\/\[0\.03\]:hover:is(.dark *){background-color:#ffffff08}.dark\:hover\:text-amber-300:hover:is(.dark *){--tw-text-opacity:1;color:#fcd34d;color:rgb(252 211 77/var(--tw-text-opacity,1))}.dark\:hover\:text-white:hover:is(.dark *){--tw-text-opacity:1;color:#fff;color:rgb(255 255 255/var(--tw-text-opacity,1))}.dark\:focus\:border-white:focus:is(.dark *){--tw-border-opacity:1;border-color:#fff;border-color:rgb(255 255 255/var(--tw-border-opacity,1))}.dark\:focus\:bg-dark-card:focus:is(.dark *){--tw-bg-opacity:1;background-color:#0f121c;background-color:rgb(15 18 28/var(--tw-bg-opacity,1))}.group:hover .dark\:group-hover\:text-white:is(.dark *){--tw-text-opacity:1;color:#fff;color:rgb(255 255 255/var(--tw-text-opacity,1))}@media (min-width:640px){.sm\:-m-6{margin:-1.5rem}.sm\:-m-8{margin:-2rem}.sm\:mx-3{margin-left:.75rem;margin-right:.75rem}.sm\:mx-4{margin-left:1rem;margin-right:1rem}.sm\:block{display:block}.sm\:flex{display:flex}.sm\:h-11{height:2.75rem}.sm\:h-48{height:12rem}.sm\:h-5{height:1.25rem}.sm\:h-6{height:1.5rem}.sm\:h-80{height:20rem}.sm\:h-9{height:2.25rem}.sm\:w-11{width:2.75rem}.sm\:w-5{width:1.25rem}.sm\:w-80{width:20rem}.sm\:w-9{width:2.25rem}.sm\:w-auto{width:auto}.sm\:grid-cols-2{grid-template-columns:repeat(2,minmax(0,1fr))}.sm\:grid-cols-3{grid-template-columns:repeat(3,minmax(0,1fr))}.sm\:grid-cols-4{grid-template-columns:repeat(4,minmax(0,1fr))}.sm\:flex-row{flex-direction:row}.sm\:gap-1\.5{gap:.375rem}.sm\:gap-8{gap:2rem}.sm\:p-4{padding:1rem}.sm\:p-8{padding:2rem}.sm\:px-2{padding-left:.5rem;padding-right:.5rem}.sm\:px-3{padding-left:.75rem;padding-right:.75rem}.sm\:px-4{padding-left:1rem;padding-right:1rem}.sm\:px-6{padding-left:1.5rem;padding-right:1.5rem}.sm\:px-8{padding-left:2rem;padding-right:2rem}.sm\:py-2{padding-bottom:.5rem;padding-top:.5rem}.sm\:py-20{padding-bottom:5rem;padding-top:5rem}.sm\:py-8{padding-bottom:2rem;padding-top:2rem}.sm\:pb-16{padding-bottom:4rem}.sm\:pl-16{padding-left:4rem}.sm\:pr-16{padding-right:4rem}.sm\:pt-12{padding-top:3rem}.sm\:pt-14{padding-top:3.5rem}.sm\:pt-36{padding-top:9rem}.sm\:text-left{text-align:left}.sm\:text-2xl{font-size:1.5rem;line-height:2rem}.sm\:text-3xl{font-size:1.875rem;line-height:2.25rem}.sm\:text-4xl{font-size:2.25rem;line-height:2.5rem}.sm\:text-5xl{font-size:3rem;line-height:1}.sm\:text-base{font-size:1rem;line-height:1.5rem}.sm\:text-lg{font-size:1.125rem;line-height:1.75rem}.sm\:text-sm{font-size:.875rem;line-height:1.25rem}.sm\:text-xl{font-size:1.25rem;line-height:1.75rem}}@media (min-width:768px){.md\:inline-block{display:inline-block}.md\:h-72{height:18rem}.md\:h-96{height:24rem}.md\:w-72{width:18rem}.md\:w-96{width:24rem}.md\:grid-cols-2{grid-template-columns:repeat(2,minmax(0,1fr))}.md\:grid-cols-3{grid-template-columns:repeat(3,minmax(0,1fr))}.md\:grid-cols-4{grid-template-columns:repeat(4,minmax(0,1fr))}.md\:grid-cols-5{grid-template-columns:repeat(5,minmax(0,1fr))}.md\:flex-row{flex-direction:row}.md\:gap-16{gap:4rem}.md\:gap-2{gap:.5rem}.md\:px-12{padding-left:3rem;padding-right:3rem}.md\:px-8{padding-left:2rem;padding-right:2rem}.md\:text-left{text-align:left}.md\:text-5xl{font-size:3rem;line-height:1}.md\:text-6xl{font-size:3.75rem;line-height:1}.md\:text-lg{font-size:1.125rem;line-height:1.75rem}}@media (min-width:1024px){.lg\:order-1{order:1}.lg\:order-2{order:2}.lg\:col-span-5{grid-column:span 5/span 5}.lg\:col-span-7{grid-column:span 7/span 7}.lg\:-m-12{margin:-3rem}.lg\:-m-8{margin:-2rem}.lg\:mx-0{margin-left:0;margin-right:0}.lg\:h-\[420px\]{height:420px}.lg\:w-\[420px\]{width:420px}.lg\:grid-cols-12{grid-template-columns:repeat(12,minmax(0,1fr))}.lg\:grid-cols-3{grid-template-columns:repeat(3,minmax(0,1fr))}.lg\:justify-start{justify-content:flex-start}.lg\:border-8{border-width:8px}.lg\:px-16{padding-left:4rem;padding-right:4rem}.lg\:py-24{padding-bottom:6rem;padding-top:6rem}.lg\:text-left{text-align:left}.lg\:text-4xl{font-size:2.25rem;line-height:2.5rem}.lg\:text-6xl{font-size:3.75rem;line-height:1}.lg\:text-8xl{font-size:6rem;line-height:1}}
+/*# sourceMappingURL=main.f1a2ea99.css.map*/